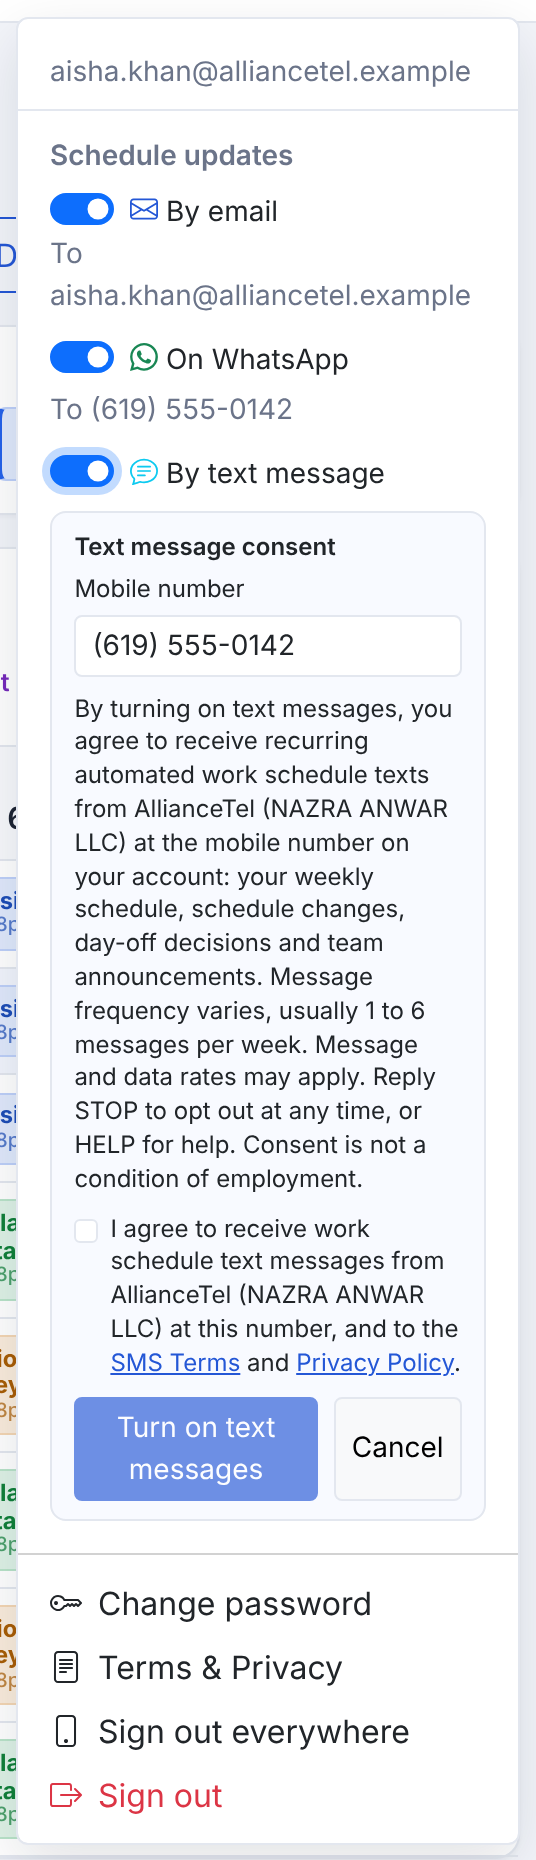
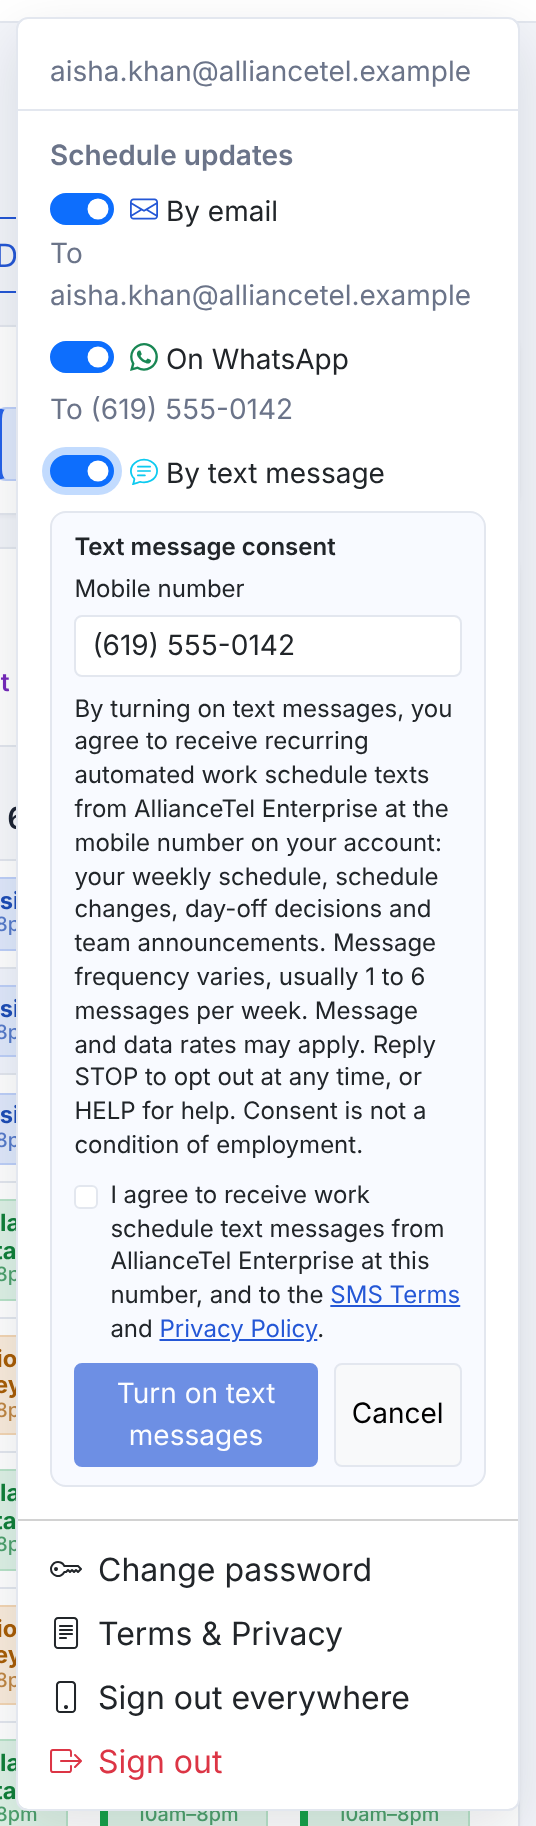
Updating Privacy Policy

diff --git a/public/sms-consent/index.html b/public/sms-consent/index.html
@@ -2,9 +2,9 @@
 <html lang="en">
 <head>
 <meta charset="utf-8">
-<title>SMS Opt-In Consent | AllianceTel (NAZRA ANWAR LLC)</title>
+<title>SMS Opt-In Consent | AllianceTel Enterprise</title>
 <meta name="viewport" content="width=device-width, initial-scale=1">
-<meta name="description" content="How AllianceTel (NAZRA ANWAR LLC) employees opt in to work schedule text messages.">
+<meta name="description" content="How AllianceTel Enterprise employees opt in to work schedule text messages.">
 <link rel="icon" type="image/svg+xml" href="/favicon.svg">
 <style>:root{--navy:#0f1d3a;--primary:#2457d6;--muted:#5d667a;--border:#e3e7ef}
 *{box-sizing:border-box}body{margin:0;font-family:Inter,system-ui,-apple-system,'Segoe UI',Roboto,Arial,sans-serif;color:#1d2433;background:#f3f5fa;line-height:1.6}
@@ -33,10 +33,10 @@ code{background:#f1f3f8;padding:2px 6px;border-radius:5px}</style>
 <header><a class="brand" href="/login"><span class="mark">AT</span><span>AllianceTel<span class="sub">Enterprise Suite</span></span></a></header>
 <main>
     <h1>SMS Opt-In Consent</h1>
-    <p class="muted">AllianceTel work schedule text messages · NAZRA ANWAR LLC, doing business as AllianceTel</p>
+    <p class="muted">AllianceTel Enterprise work schedule text messages</p>
 
     <p>
-      This page shows how employees of <strong>NAZRA ANWAR LLC</strong> (AllianceTel) agree to receive work schedule
+      This page shows how employees of <strong>AllianceTel Enterprise</strong> agree to receive work schedule
       text messages. Employees opt in themselves, online, inside the AllianceTel workforce app at atdirect.app.
       Managers and administrators cannot opt anyone in. Text messages are optional: consent is not a condition of
       employment, and schedules are always available in the app and by email.
@@ -60,15 +60,15 @@ code{background:#f1f3f8;padding:2px 6px;border-radius:5px}</style>
 
     <h2>Consent language shown to the employee</h2>
     <div class="quote">
-      <p style="margin-top:0">By turning on text messages, you agree to receive recurring automated work schedule texts from AllianceTel (NAZRA ANWAR LLC) at the mobile number on your account: your weekly schedule, schedule changes, day-off decisions and team announcements. Message frequency varies, usually 1 to 6 messages per week. Message and data rates may apply. Reply STOP to opt out at any time, or HELP for help. Consent is not a condition of employment.</p>
-      <p style="margin-bottom:0"><strong>Checkbox:</strong> &#9744; I agree to receive work schedule text messages from AllianceTel (NAZRA ANWAR LLC) at this number, and to the SMS Terms and Privacy Policy.</p>
+      <p style="margin-top:0">By turning on text messages, you agree to receive recurring automated work schedule texts from AllianceTel Enterprise at the mobile number on your account: your weekly schedule, schedule changes, day-off decisions and team announcements. Message frequency varies, usually 1 to 6 messages per week. Message and data rates may apply. Reply STOP to opt out at any time, or HELP for help. Consent is not a condition of employment.</p>
+      <p style="margin-bottom:0"><strong>Checkbox:</strong> &#9744; I agree to receive work schedule text messages from AllianceTel Enterprise at this number, and to the SMS Terms and Privacy Policy.</p>
     </div>
 
     <h2>Form fields</h2>
     <div class="form" aria-label="Example of the consent form (for illustration; employees complete it in the app)">
       <label for="demoPhone">Mobile number</label>
       <input id="demoPhone" type="tel" value="(619) 555-0142" readonly>
-      <div class="check"><input type="checkbox" disabled> <span>I agree to receive work schedule text messages from AllianceTel (NAZRA ANWAR LLC) at this number, and to the SMS Terms and Privacy Policy.</span></div>
+      <div class="check"><input type="checkbox" disabled> <span>I agree to receive work schedule text messages from AllianceTel Enterprise at this number, and to the SMS Terms and Privacy Policy.</span></div>
       <button type="button" disabled>Turn on text messages</button>
     </div>
     <p class="muted" style="font-size:.85rem">Illustration of the in-app form. Employees complete it while signed in to
@@ -76,7 +76,7 @@ code{background:#f1f3f8;padding:2px 6px;border-radius:5px}</style>
 
     <h2>Confirmation message</h2>
     <p>Sent once, right after the employee agrees:</p>
-    <div class="quote">AllianceTel (NAZRA ANWAR LLC): You're signed up for work schedule texts. Msg freq varies. Msg&amp;data rates may apply. Reply HELP for help, STOP to cancel.</div>
+    <div class="quote">AllianceTel Enterprise: You're signed up for work schedule texts. Msg freq varies. Msg&amp;data rates may apply. Reply HELP for help, STOP to cancel.</div>
 
     <h2>Messages they receive</h2>
     <ul>

diff --git a/public/terms/index.html b/public/terms/index.html
@@ -27,7 +27,7 @@ footer{margin-top:32px;padding-top:16px;border-top:1px solid var(--border);font-
 
     <p>
       These Terms &amp; Conditions apply to the <strong>AllianceTel</strong> workforce app at
-      atdirect.app (the "App"), provided by <strong>NAZRA ANWAR LLC</strong>, doing business as AllianceTel
+      atdirect.app (the "App"), provided by <strong>AllianceTel Enterprise</strong>
       ("AllianceTel", "we", "us"), to its employees and managers for work
       schedules, days off, end-of-day reports, performance and commission. By signing in, you agree to these terms
       and to our <a href="/privacy">Privacy Policy</a>.
@@ -43,7 +43,7 @@ footer{margin-top:32px;padding-top:16px;border-top:1px solid var(--border);font-
 
     <h2 id="sms-terms">SMS Terms</h2>
     <p>
-      <strong>Program:</strong> AllianceTel work schedule text messages, sent by NAZRA ANWAR LLC (AllianceTel). If you turn on text messages in the
+      <strong>Program:</strong> AllianceTel work schedule text messages, sent by AllianceTel Enterprise. If you turn on text messages in the
       App's account menu and agree to these terms, AllianceTel will send automated texts to the mobile number
       on your account.
     </p>
@@ -80,7 +80,7 @@ footer{margin-top:32px;padding-top:16px;border-top:1px solid var(--border);font-
 
     <h2>Contact us</h2>
     <p>
-      NAZRA ANWAR LLC (AllianceTel) · <a href="mailto:support@atdirect.app">support@atdirect.app</a>
+      AllianceTel Enterprise · <a href="mailto:support@atdirect.app">support@atdirect.app</a>
     </p>
 
     <footer>

diff --git a/src/app/features/legal/legal-info.ts b/src/app/features/legal/legal-info.ts
@@ -1,11 +1,11 @@
 /**
  * Details shown on the Privacy Policy and Terms & Conditions pages and in the text-message consent.
- * legalName must match the Brand (legal company name) registered with Twilio for A2P 10DLC exactly.
+ * legalName must match the Brand name registered with Twilio for A2P 10DLC exactly.
  */
 export const LEGAL = {
   brandName: 'AllianceTel',
-  /** The registered legal entity (the Brand registered with Twilio for A2P 10DLC). */
-  legalName: 'NAZRA ANWAR LLC',
+  /** The name the business uses (the Brand registered with Twilio for A2P 10DLC). */
+  legalName: 'AllianceTel Enterprise',
   /** Where people (and carriers) can reach us about privacy, texts or these terms. */
   contactEmail: 'support@atdirect.app',
   website: 'atdirect.app',
@@ -17,7 +17,7 @@ export const LEGAL = {
 /** The consent wording shown before someone turns on texts (also what the SMS campaign's opt-in describes). */
 export const SMS_CONSENT_TEXT =
   `By turning on text messages, you agree to receive recurring automated work schedule texts from ` +
-  `${LEGAL.brandName} (${LEGAL.legalName}) ` +
+  `${LEGAL.legalName} ` +
   `at the mobile number on your account: your weekly schedule, schedule changes, day-off decisions and team ` +
   `announcements. ${LEGAL.messageFrequency}. Message and data rates may apply. Reply STOP to opt out at any time, ` +
   `or HELP for help. Consent is not a condition of employment.`;

diff --git a/public/privacy/index.html b/public/privacy/index.html
@@ -26,7 +26,7 @@ footer{margin-top:32px;padding-top:16px;border-top:1px solid var(--border);font-
     <p class="muted">Effective November 3, 2026</p>
 
     <p>
-      This Privacy Policy explains how <strong>NAZRA ANWAR LLC</strong>, doing business as <strong>AllianceTel</strong>
+      This Privacy Policy explains how <strong>AllianceTel Enterprise</strong>
       ("AllianceTel", "we", "us"), collects, uses and protects personal information in the AllianceTel workforce app at
       atdirect.app (the "App"), which our employees and managers use for work schedules, days off, end-of-day
       sales reports, performance and commission, and for schedule messages by email, WhatsApp and text message (SMS).
@@ -100,7 +100,7 @@ footer{margin-top:32px;padding-top:16px;border-top:1px solid var(--border);font-
 
     <h2>Contact us</h2>
     <p>
-      NAZRA ANWAR LLC (AllianceTel) · <a href="mailto:support@atdirect.app">support@atdirect.app</a>
+      AllianceTel Enterprise · <a href="mailto:support@atdirect.app">support@atdirect.app</a>
     </p>
 
     <footer>

diff --git a/src/app/layout/shell.html b/src/app/layout/shell.html
@@ -100,7 +100,7 @@
                       <div class="form-check mb-2">
                         <input class="form-check-input" type="checkbox" id="smsAgree" [checked]="smsAgreed()" (change)="smsAgreed.set($any($event.target).checked)" />
                         <label class="form-check-label" for="smsAgree">
-                          I agree to receive work schedule text messages from AllianceTel (NAZRA ANWAR LLC) at this number,
+                          I agree to receive work schedule text messages from AllianceTel Enterprise at this number,
                           and to the <a href="/terms#sms-terms" target="_blank" rel="noopener">SMS Terms</a> and
                           <a href="/privacy" target="_blank" rel="noopener">Privacy Policy</a>.
                         </label>
